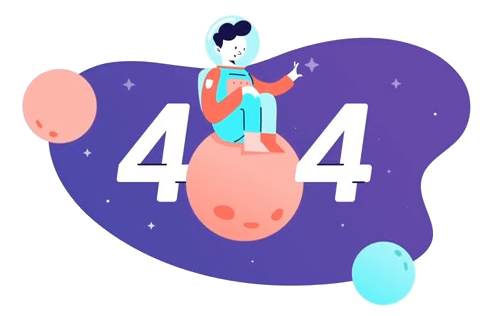
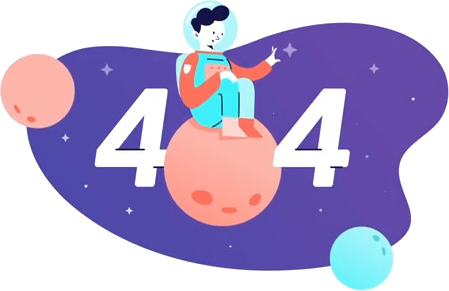
Dynamic with fixed sizes and animation

diff --git a/main.css b/main.css
@@ -13,15 +13,22 @@ body{
 
 .container{
     display: inline-block;
-    width: 100%;
     margin-top: 10px;
+    width: 1200px;
+    margin-left: calc(50% - 600px);
     text-align: center;
+}
+
+header.container {
+    display: flex;
+    justify-content: space-around;
+    align-items: center;
 }
 
 .logo{
     float: left;
     width: 80px;
-    margin-left: calc(20% - 80px);
+    user-select: none;
 }
 
 .logo > img{
@@ -30,21 +37,18 @@ body{
 }
 
 .menu {
-    margin-top: 15px;
     text-transform: capitalize;
     font-size: 14px;
 }
 
 .main-menu{
     float: left;
-    margin-left: 5%;
     width: 35%;
 }
 
 .login-menu{
     float: right;
-    margin-right: 10%;
-    width: 25%;
+    width: 40%;
     text-align: right;
 }
 
@@ -61,6 +65,7 @@ body{
     padding: 5px 30px;
     border-radius: 7px;
     line-height: 1em;
+    user-select: none;
 }
 
 .title{
@@ -84,7 +89,75 @@ body{
 }
 
 .center-image{
-display: block;
+    display: block;
     width: 60%;
+    margin-top: 20px;
     margin-left: 20%;
+    user-select: none;
+    position: relative;
+}
+
+.bg-image,
+.moving-image {
+    width: 100%;
+}
+
+.moving-image {
+    position: absolute;
+    top: 0;
+    left: 0;
+    animation-name: down;
+    animation-duration: 5s;
+    animation-iteration-count: infinite;
+}
+
+.moving-image:nth-child(2) {
+    animation-name: up;
+}
+
+@keyframes down {
+    50% {
+        transform: translateY(1em);
+    }
+}
+
+@keyframes up {
+    50% {
+        transform: translateY(-1em);
+    }
+}
+
+
+@media (max-width: 1200px) {
+    .container {
+        width: 900px;
+        margin-left: calc(50% - 450px);
+    }
+}
+
+@media (max-width: 900px) {
+    .container {
+        width: 100%;
+        margin-left: 0;
+    }
+    .center-image{
+        width: 540px;
+        margin-left: calc(50% - 270px);
+    }
+}
+
+@media (max-width: 700px) {
+    .main-menu{
+        width: 30%;
+    }
+}
+@media (max-width: 540px) {
+    .container {
+        width: 100%;
+        margin-left: 0;
+    }
+    .center-image{
+        width: 100%;
+        margin-left: 0;
+    }
 }

diff --git a/index.html b/index.html
@@ -35,7 +35,12 @@
         <h1 class="title">Lorem ipsum dolor sit amet.</h1>
         <p class="description">Lorem ipsum dolor sit amet, consectetur. Atque, tempora.</p>
         <a class="button orange" href="#">Home</a>
-        <img class="center-image" src="./kosmonautas.png" alt="Kosmonautas 404">
+        <div class="center-image">
+            <img class="bg-image" src="./bg-only.png" alt="Kosmonautas 404">
+            <img class="moving-image" src="./moon1.png" alt="moving 404">
+            <img class="moving-image" src="./moon2.png" alt="Kosmonautas 404">
+            <img class="moving-image" src="./moon3.png" alt="Kosmonautas 404"></div>
+        
     </main>
 </body>
 </html>
